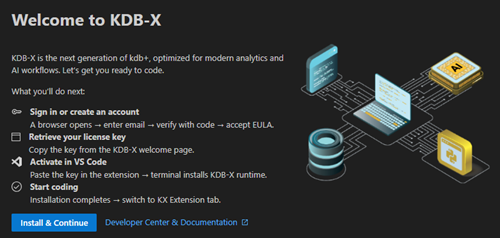
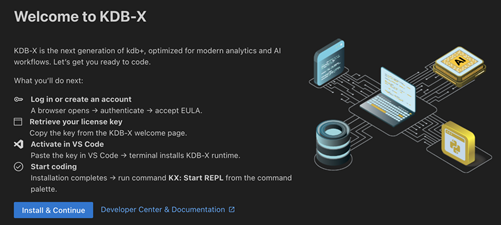
update readme, changelog, and delete old images

diff --git a/README.md b/README.md
@@ -181,7 +181,7 @@ In addition to q and Python files, SQL files are also supported for execution wi
 
 ## Connections
 
-The **kdb VS Code extension** allows you to have multiple connections open at once, enabling development and testing across different KDB-X and kdb Insights Enterprise connections using both q and Python.
+The **kdb VS Code extension** allows you to have multiple connections open at once, enabling development and testing across different KDB-X and kdb Insights Enterprise connections using q, Python, and SQL.
 
 To add connections:
 
@@ -245,7 +245,7 @@ Set the following from the Advanced properties if necessary:
 
 1. Right-click the connection, and click **Connect server**.
 
-   ![connecttoinsights](https://raw.githubusercontent.com/KxSystems/kx-vscode/main/.README/kdbinsightsconnection.jpg)
+   ![connecttoinsights](https://raw.githubusercontent.com/KxSystems/kx-vscode/main/.README/kdbinsightsconnection.png)
 
 1. The kdb VS Code extension runs an authentication step with the remote **kdb Insights Enterprise** process to sign-in.
 
@@ -276,8 +276,6 @@ To edit an existing connection, right-click the connection you wish to edit and 
 ![Edit connection option](https://raw.githubusercontent.com/KxSystems/kx-vscode/main/.README/select-edit-connection.png)
 
 > NOTE: Editing an **active connection** may require you to **restart** the connection. If so, you are prompted to reconnect after saving your changes.
-
-![Edit connected connection dialog](https://raw.githubusercontent.com/KxSystems/kx-vscode/main/.README/edit-connected-connection-dialog.png)
 
 ### Edit My q connection
 
@@ -825,8 +823,6 @@ All query executions happen remotely from the **kdb VS Code extension** either a
 
 - **Output** - The **Output** window displays results as they are received by the **kdb VS Code extension**. It includes the query executed, a timestamp and the results.
 
-  ![Output view](https://raw.githubusercontent.com/KxSystems/kx-vscode/main/.README/output-results.png)
-
   **Note:** You can enable/disable auto-scrolling in the VS Code settings. This setting determines whether the output view scrolls to the latest results.
 
   ![Output autoscrolling](https://raw.githubusercontent.com/KxSystems/kx-vscode/main/.README/auto-scrolling.png)
@@ -887,21 +883,21 @@ To update kdb VS Code settings, search for **kdb** from _Preferences_ > _Setting
 
 | Setting                                                                                                            | Action                                                                  |
 | ------------------------------------------------------------------------------------------------------------------ | ----------------------------------------------------------------------- |
-| **Hide notification for installation path, after first install**                                                   | yes/no; default no                                                      |
-| **Hide subscribe for registration notification**                                                                   | yes/no; default no                                                      |
-| **Hide the extension survey dialog box**                                                                           | yes/no; default no                                                      |
-| **Hide source expressions**                                                                                        | yes/no; default yes                                                     |
-| **kdb Insights Enterprise connections for explorer**                                                               | [edit JSON settings](#kdb-insights-enterprise-connections-for-explorer) |
-| **Linting**                                                                                                        | Enable linting for q and quke files                                     |
-| **Refactoring**                                                                                                    | Choose refactoring scope                                                |
-| **QHOME directory for q runtime**                                                                                  | Display location path of q installation                                 |
-| **Never show q install walkthrough again**                                                                         | yes/no; default no                                                      |
-| **kdb servers for explorer**                                                                                       | [edit JSON settings](#servers)                                          |
-| **Automatically focus the output console when running a query without an active results tab or receive log entry** | yes/no; default yes                                                     |
-| **Connection map for workspace files**                                                                             | edit JSON settings                                                      |
-| **Target map for workspace files**                                                                                 | edit JSON settings                                                      |
+| **Automatically [focus the output](#auto-focus-output-on-entry) console when running a query without an active results tab or receive log entry** | yes/no; default yes                                                     |
 | **List of label names and colorset**                                                                               | edit JSON settings                                                      |
+| **Connection map for workspace files**                                                                             | edit JSON settings                                                      |
+| **Hide source expressions**                                                                                        | yes/no; default yes                                                     |
+| **Hide subscribe for registration notification**                                                                   | yes/no; default yes                                                     |
+| **Hide survey**                                                                                                    | yes/no; default no                                                     |
+| **kdb Insights Enterprise connections for explorer**                                                               | [edit JSON settings](#kdb-insights-enterprise-connections-for-explorer) |
 | **Labels connection map**                                                                                          | edit JSON settings                                                      |
+| **Linting**                                                                                                        | Enable linting for q and quke files                                     |
+| **Never show q install walkthrough again**                                                                         | yes/no; default no                                                      |
+| **QHOME directory for q runtime**                                                                                  | Display location path of q installation                                 |
+| **QHOME directory for q runtime for the workspace**                                                                | Display location path of the q installation used to launch the REPL for the current workspace                                 |
+| **Refactoring**                                                                                                    | Choose [refactoring](#refactoring) scope                                                |
+| **kdb servers for explorer**                                                                                       | [edit JSON settings](#servers)                                          |
+| **Target map for workspace files**                                                                                 | edit JSON settings                                                      |
 
 ### Refactoring
 
@@ -1012,33 +1008,35 @@ If you choose to opt out permanently but wish to revert this, open VS Code setti
 
 ### For Windows
 
-| Key                   | Action                            |
-| --------------------- | --------------------------------- |
-| F12                   | Go to definition                  |
-| Shift + F12           | Go to references                  |
-| Ctrl + Shift + F12    | Find all references               |
-| Ctrl + D              | Execute current selection         |
-| Ctrl + Shift + E      | Execute current block             |
-| Ctrl + Shift + D      | Execute entire file               |
-| Ctrl + Shift + R      | Run q file in new q instance      |
-| Ctrl + Shift + Y      | Toggle parameter cache for lambda |
-| Ctrl + Shift + Delete | Reset scratchpad                  |
-| Ctrl + Alt + T        | Choose the execution target       |
+| Key                    | Action                            |
+| ---------------------- | --------------------------------- |
+| F12                    | Go to definition                  |
+| Shift + F12            | Go to references                  |
+| Ctrl + Shift + F12     | Find all references               |
+| Ctrl + D               | Execute current selection         |
+| Ctrl + Shift + E       | Execute current block             |
+| Ctrl + Shift + D       | Execute entire file               |
+| Ctrl + Shift + R       | Run q file in new q instance      |
+| Ctrl + Shift + Y       | Toggle parameter cache for lambda |
+| Ctrl + Shift + Alt + P | Populate Scratchpad               |
+| Ctrl + Shift + Delete  | Reset Scratchpad                  |
+| Ctrl + Alt + T         | Choose the execution target       |
 
 ### For MacOS
 
-| Key                | Action                            |
-| ------------------ | --------------------------------- |
-| F12                | Go to definition                  |
-| Shift + F12        | Go to references                  |
-| ⌘ + Shift + F12    | Find all references               |
-| ⌘ + D              | Execute current selection         |
-| ⌘ + Shift + E      | Execute current block             |
-| ⌘ + Shift + D      | Execute entire file               |
-| ⌘ + Shift + R      | Run q file in new q instance      |
-| ⌘ + Shift + Y      | Toggle parameter cache for lambda |
-| ⌘ + Shift + Delete | Reset scratchpad                  |
-| ⌘ + Alt + T        | Choose the execution target       |
+| Key                  | Action                            |
+| -------------------- | --------------------------------- |
+| F12                  | Go to definition                  |
+| Shift + F12          | Go to references                  |
+| ⌘ + Shift + F12     | Find all references               |
+| ⌘ + D               | Execute current selection         |
+| ⌘ + Shift + E       | Execute current block             |
+| ⌘ + Shift + D       | Execute entire file               |
+| ⌘ + Shift + R       | Run q file in new q instance      |
+| ⌘ + Shift + Y       | Toggle parameter cache for lambda |
+| ⌘ + Shift + Alt + P | Populate Scratchpad               |
+| ⌘ + Shift + Delete  | Reset Scratchpad                  |
+| ⌘ + Alt + T        |  Choose the execution target       |
 
 ## Reference card
 

diff --git a/CHANGELOG.md b/CHANGELOG.md
@@ -6,10 +6,10 @@ All notable changes to the **kdb VS Code extension** are documented in this file
 
 ### Fixes
 
-- Fixed Keycloak url change in IE 1.17
-- Fixed REPL system commands path issue
-- Updated welcome page to be more clear
-- Updated documentation
+- Updated Keycloak URL configuration to support Insights Enterprise 1.17
+- Resolved an issue with REPL system command path
+- Improved clarity and layout of the welcome page
+- Updated and refined documentation
 
 # v1.16.0
 
